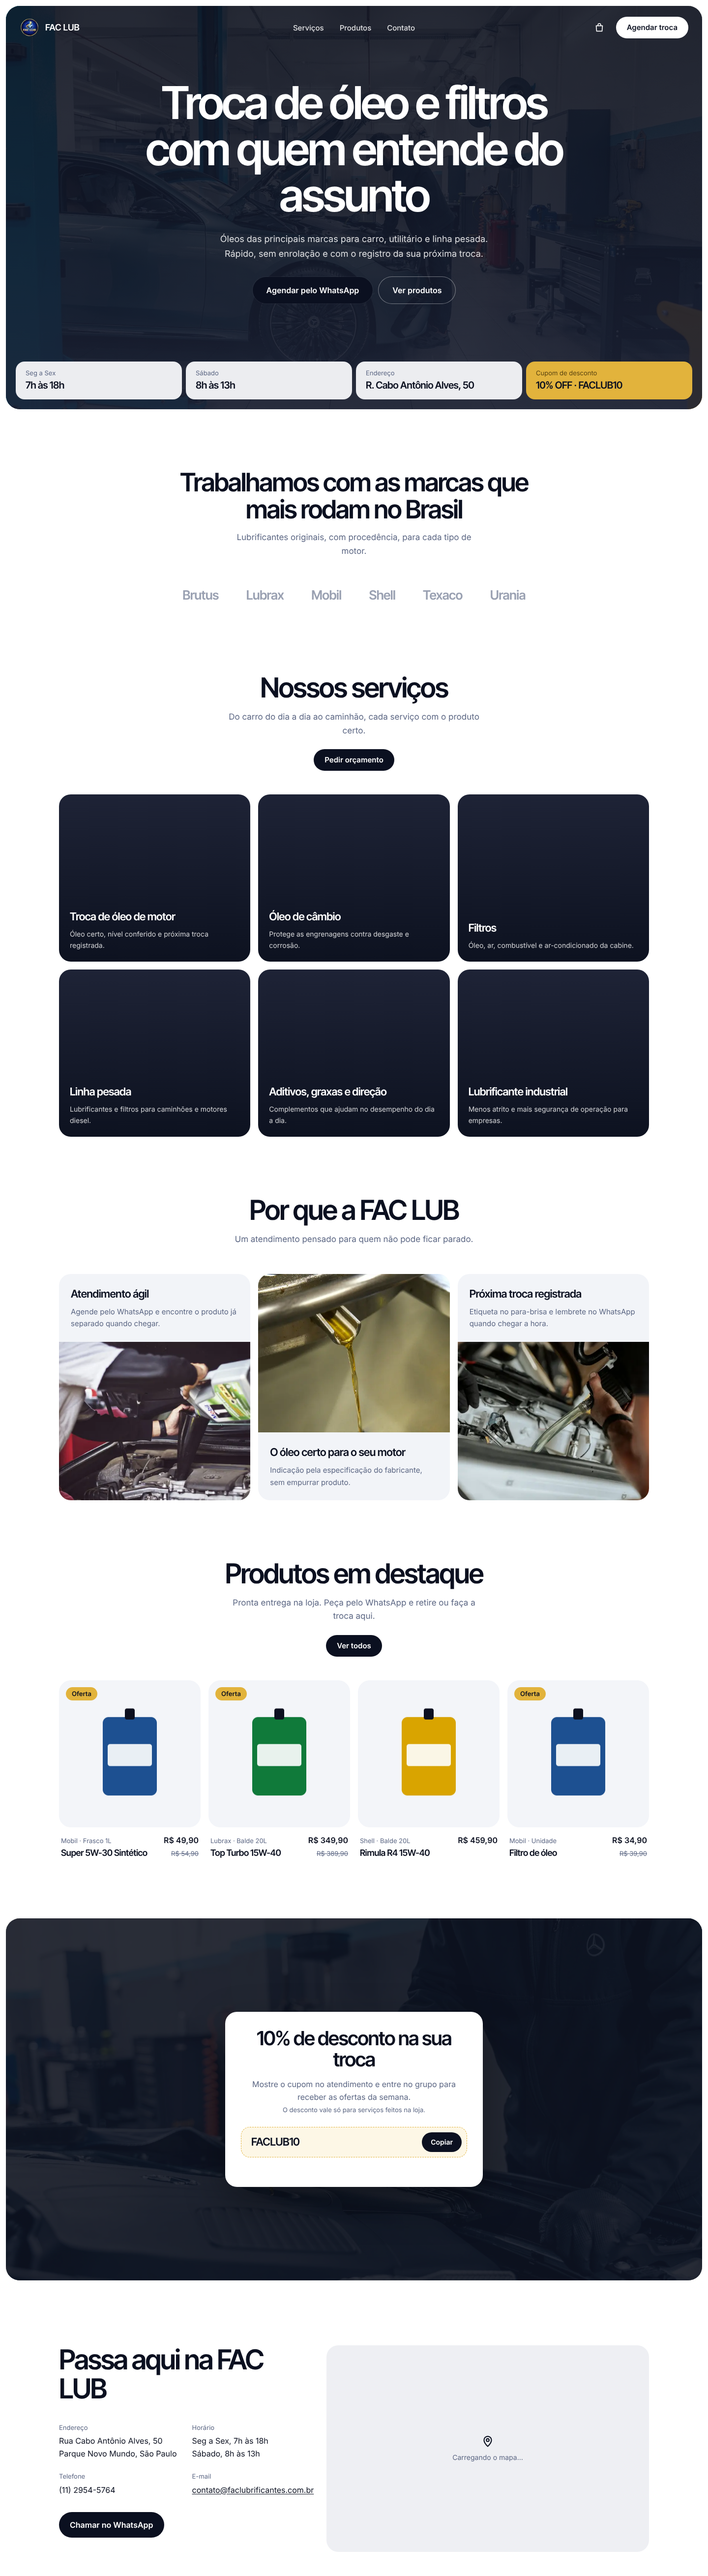
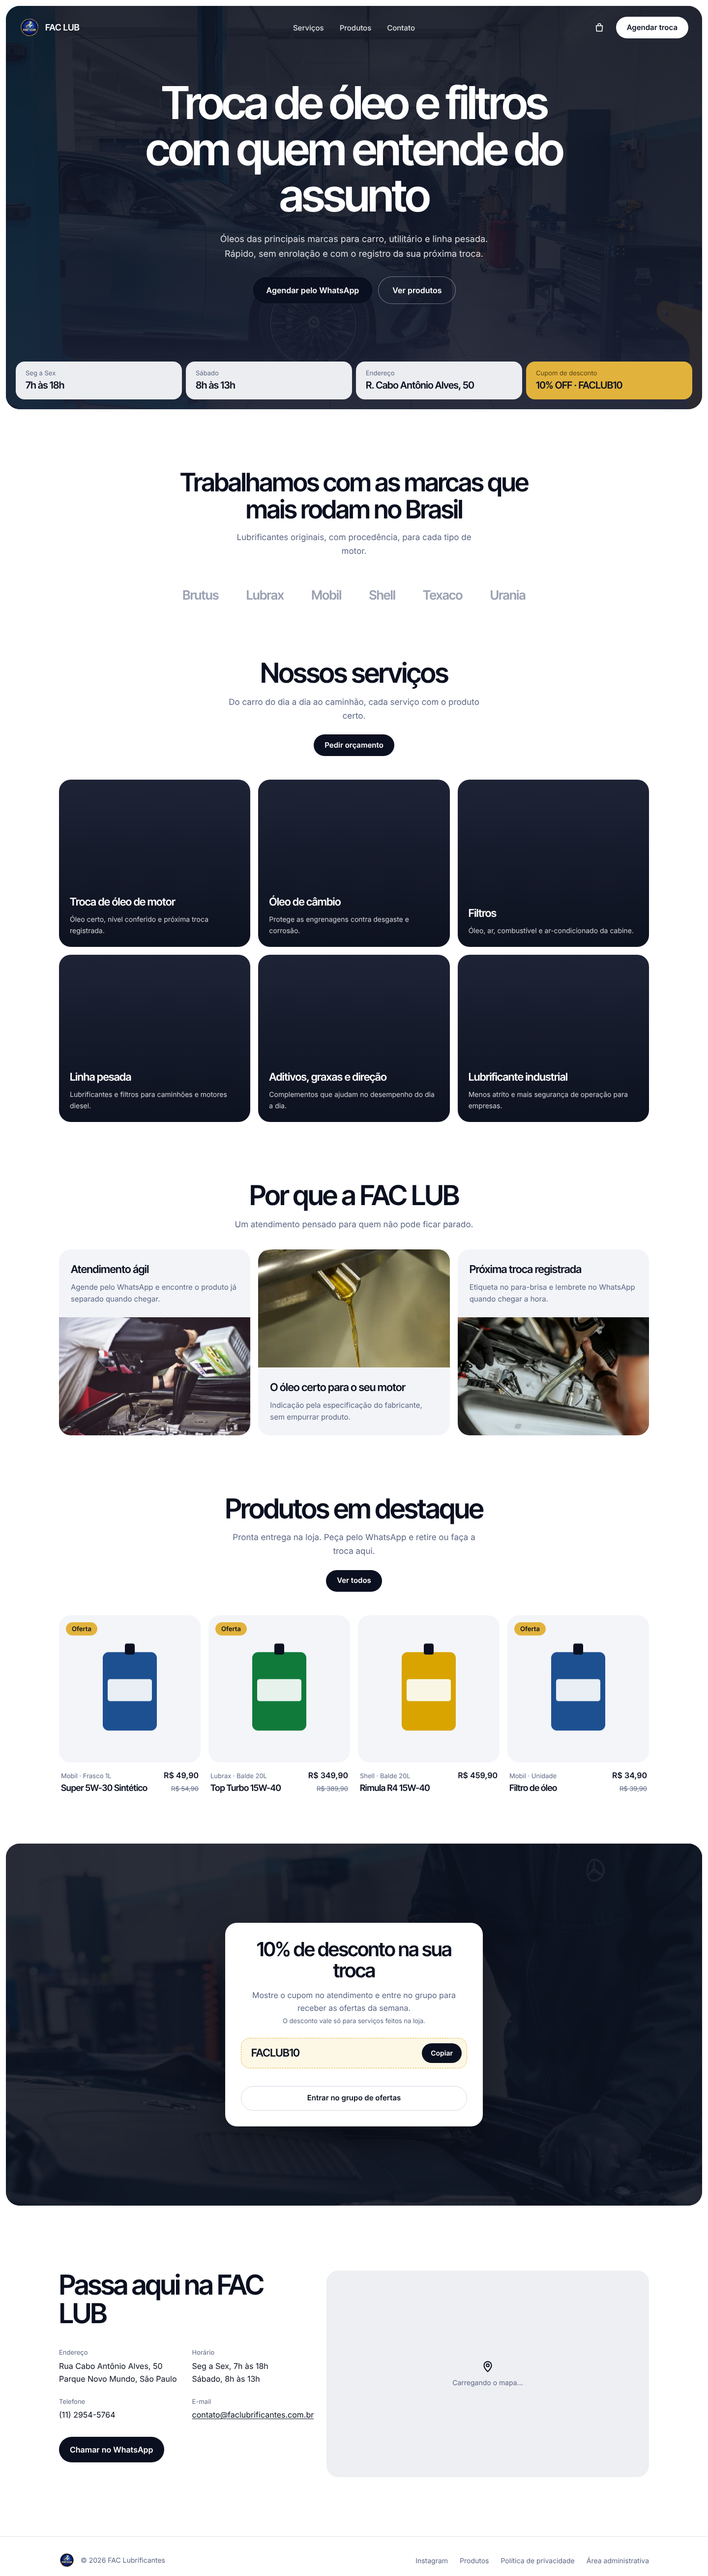
docs(site-publico): segunda rodada das telas
Claude-Session: https://claude.ai/code/session_01HkLPVhL2U4uqqiGkbaNdCx

Changed region(s): [[0.0, 0.4046, 1.0, 0.996], [0.0938, 0.249, 0.9062, 0.3112], [0.0938, 0.3424, 0.9062, 0.3735]]

diff --git a/.specs/features/site-publico/screens.md b/.specs/features/site-publico/screens.md
@@ -1,15 +1,17 @@
 # Site público screens
 
 **Verifier**: independent sub-agent (author != verifier)
-**Round**: 1
+**Round**: 2
 
 Fotos tiradas por este sub-agente em 2026-10-28, como diz o `**Walked:**`: `npm run build:local`, `E2E_SKIP_BUILD=1 node scripts/local-supabase/start.mjs --app`, `node scripts/local-supabase/seed.mjs --site`, `POST /api/revalidar`, Chromium do Playwright com a janela no tamanho de cada captura (1x), página rolada até o fim e de volta ao topo, 1 s de espera e foto só da janela (sem fullPage). O iframe do Google Maps não carrega neste ambiente (o proxy recusa `www.google.com`), então o mapa fica no estado "Carregando o mapa...".
 
+Rodada 2, por outro sub-agente independente, em 2026-10-28: as três fotos tiradas de novo do mesmo jeito (build, `start.mjs --app`, seed `--site`, `POST /api/revalidar`, janela no tamanho da captura, 1x, rolagem até o fim e volta, 1 s, foto só da janela). Só as linhas que estavam `differs` foram reabertas; as `same` ficaram como estavam e nada foi acrescentado aos inventários. As linhas cobertas por AD-015 em `## Differences from the source` contam como aprovadas.
+
 | Screen | Compared with | Verdict | Finding |
 | --- | --- | --- | --- |
-| `captures/home.running.png` | `captures/home.png` | diverges | 5 linhas diferem: fotos dos cards de serviço, altura dos cards "Por que a FAC LUB", frase a mais no cupom, "Entrar no grupo de ofertas" ausente, rodapé fora da janela |
-| `captures/catalogo.running.png` | `captures/catalogo.png` | diverges | 1 linha difere: "Carregar mais" ausente |
-| `captures/produto.running.png` | `captures/produto.png` | diverges | 1 linha difere: rodapé cortado na borda de baixo da janela |
+| `captures/home.running.png` | `captures/home.png` | diverges | rodada 2: 1 linha difere: os cards de serviço continuam sem foto. Altura dos cards "Por que a FAC LUB", "Entrar no grupo de ofertas" e rodapé agora iguais; frase do cupom aprovada (AD-015) |
+| `captures/catalogo.running.png` | `captures/catalogo.png` | matches | rodada 2: "Carregar mais" ausente com 12 produtos é diferença aprovada (AD-015) |
+| `captures/produto.running.png` | `captures/produto.png` | matches | rodada 2: o rodapé aparece inteiro na janela |
 
 ### `captures/home.running.png`
 
@@ -28,21 +30,21 @@ Fotos tiradas por este sub-agente em 2026-10-28, como diz o `**Walked:**`: `npm 
 | marcas: 6 nomes em cinza numa linha centralizada | same | nota: mesmos 6 nomes em ordem alfabética (Brutus, Lubrax, Mobil, Shell, Texaco, Urania); a captura usa Mobil, Shell, Texaco, Lubrax, Urania, Brutus. O spec (HOME-01 AC4) não fixa a ordem |
 | serviços: título "Nossos serviços", subtítulo "Do carro do dia a dia ao caminhão, cada serviço com o produto certo." e botão escuro "Pedir orçamento" | same | |
 | serviços: grade 3×2 de cards escuros arredondados (~389×340) com título e texto no pé: "Troca de óleo de motor", "Óleo de câmbio", "Filtros", "Linha pesada", "Aditivos, graxas e direção", "Lubrificante industrial", com os textos da captura | same | |
-| serviços: uma foto ocupando cada card (na captura, imagens com alt "Troca de óleo", "Óleo de câmbio", "Filtros", "Linha pesada", "Aditivos e graxas", "Lubrificante industrial") | differs | nenhum card tem foto: só o gradiente escuro, sem elemento de imagem (o spec, Assumptions, pede fotos de banco nas seções de serviços) |
+| serviços: uma foto ocupando cada card (na captura, imagens com alt "Troca de óleo", "Óleo de câmbio", "Filtros", "Linha pesada", "Aditivos e graxas", "Lubrificante industrial") | differs | rodada 2: continua sem foto em nenhum dos 6 cards: só o gradiente escuro de cima para baixo, sem elemento de imagem e sem as alts da captura (o spec, Assumptions, pede fotos de banco nas seções de serviços; nenhuma linha de `## Differences from the source` cobre a ausência) |
 | por que: título "Por que a FAC LUB" e subtítulo "Um atendimento pensado para quem não pode ficar parado." | same | |
 | por que: 3 cards claros; esquerda e direita com texto em cima e foto embaixo, meio com foto em cima e texto embaixo; textos "Atendimento ágil", "O óleo certo para o seu motor", "Próxima troca registrada" e seus parágrafos | same | |
-| por que: tamanho dos cards (~389×360) e das fotos (~240 px de altura) | differs | cards com ~460 px de altura e fotos de 389×322; a seção cresce ~100 px e empurra o resto da página para baixo |
+| por que: tamanho dos cards (~389×360) e das fotos (~240 px de altura) | same | rodada 2: cards de ~389×378 e fotos de 389×240 nos três cards (esquerda e direita embaixo, meio em cima); nota: ~18 px mais altos que a captura |
 | destaques: título "Produtos em destaque", subtítulo "Pronta entrega na loja. Peça pelo WhatsApp e retire ou faça a troca aqui." e botão "Ver todos" | same | |
 | destaques: 4 cards numa linha, foto arredondada (~288×300) com selo "Oferta", embaixo "marca · embalagem" à esquerda e preço à direita, e o nome; Super 5W-30 Sintético, Top Turbo 15W-40, Rimula R4 15W-40, Filtro de óleo | same | nota: imagem neutra de embalagem; selo "Oferta" também no Top Turbo (em oferta nos dados) e o preço normal riscado sob o preço; "[MARCA]" e "[PREÇO]" viram Mobil e R$ 34,90 etc. |
 | cupom: seção escura de largura total com foto de fundo e card branco centralizado | same | |
 | cupom: título "10% de desconto na sua troca" em 2 linhas | same | |
-| cupom: texto "Mostre o cupom no atendimento e entre no grupo para receber as ofertas da semana." (só essa frase) | differs | a frase e, abaixo dela, uma linha a mais em letra menor: "O desconto vale só para serviços feitos na loja." (exigida por CUPOM-01 AC3, mas não listada em `## Differences from the source`) |
+| cupom: texto "Mostre o cupom no atendimento e entre no grupo para receber as ofertas da semana." (só essa frase) | same | rodada 2: a frase e, abaixo dela, a linha menor "O desconto vale só para serviços feitos na loja.": diferença aprovada (AD-015, CUPOM-01 AC 3) |
 | cupom: campo tracejado amarelo claro com "FACLUB10" e botão escuro "Copiar" | same | |
-| cupom: botão de contorno "Entrar no grupo de ofertas" de largura total | differs | o botão não aparece: o card termina no campo do cupom (o seed grava `group_link = null`, e HOME-01 AC11 esconde o botão) |
+| cupom: botão de contorno "Entrar no grupo de ofertas" de largura total | same | rodada 2: o botão de contorno "Entrar no grupo de ofertas" de largura total aparece abaixo do campo do cupom |
 | contato: título "Passa aqui na FAC LUB" em 2 linhas à esquerda; grade 2×2 com "Endereço" (Rua Cabo Antônio Alves, 50 / Parque Novo Mundo, São Paulo), "Horário" (Seg a Sex, 7h às 18h / Sábado, 8h às 13h), "Telefone" ((11) 2954-5764), "E-mail" (contato@faclubrificantes.com.br, sublinhado) | same | |
 | contato: botão escuro "Chamar no WhatsApp" | same | |
 | contato: mapa à direita num painel cinza arredondado (~658×420) com pino ao centro | same | nota: legenda "Carregando o mapa..." no lugar de "[Mapa do Google incorporado]" porque o Google não é acessível neste ambiente |
-| rodapé: linha divisória, logo + "© 2026 FAC Lubrificantes" à esquerda e "Instagram", "Produtos", "Área administrativa" à direita, no pé da janela | differs | o rodapé está fora da janela: a página tem 5405 px e o rodapé começa em y=5308, então a foto termina no espaço branco abaixo do contato. Fora da foto (fullPage), o rodapé mostra "Produtos", "Política de privacidade" (aprovado) e "Área administrativa", sem "Instagram" (o seed grava `instagram = null`) |
+| rodapé: linha divisória, logo + "© 2026 FAC Lubrificantes" à esquerda e "Instagram", "Produtos", "Área administrativa" à direita, no pé da janela | same | rodada 2: o rodapé está na janela, com linha divisória, logo + "© 2026 FAC Lubrificantes" à esquerda e "Instagram", "Produtos", "Política de privacidade" (aprovado, AD-005) e "Área administrativa" à direita; nota: a página tem 5253 px, então os últimos 16 px do espaço abaixo do texto do rodapé ficam fora da janela |
 
 ### `captures/catalogo.running.png`
 
@@ -55,7 +57,7 @@ Fotos tiradas por este sub-agente em 2026-10-28, como diz o `**Walked:**`: `npm 
 | contador "12 produtos" acima da grade | same | |
 | grade de 4 colunas × 3 linhas, 12 cards | same | |
 | card: foto arredondada com selo "Oferta" no canto, "marca · embalagem", nome e preço à esquerda e botão redondo escuro "+" à direita | same | nota: imagem neutra de embalagem; preço normal riscado ao lado do preço nas ofertas (CAT-01 AC13); a ordem dos cards e os selos seguem os dados na ordem "Destaques" (Top Turbo, Filtro de óleo, Super 5W-30, Rimula R4, Brutus, Graxa multiuso, Delvac, Filtro de ar, Helix HX8, Fluido de direção, Havoline, Urania), com "Oferta" em 4 cards |
-| botão de contorno "Carregar mais" centralizado abaixo da grade | differs | não há botão: abaixo da grade só espaço branco até o rodapé (o seed tem 12 produtos visíveis; a captura combina "12 produtos" com "Carregar mais", o que CAT-01 AC11 não permite com 12) |
+| botão de contorno "Carregar mais" centralizado abaixo da grade | same | rodada 2: não há botão, só espaço branco até o rodapé, com 12 produtos: diferença aprovada (AD-015, CAT-01 AC 11) |
 | rodapé: linha divisória, "© 2026 FAC Lubrificantes · Parque Novo Mundo, São Paulo" à esquerda e "Área administrativa" à direita | same | "Política de privacidade" antes de "Área administrativa": diferença aprovada (AD-005) |
 
 ### `captures/produto.running.png`
@@ -77,4 +79,4 @@ Fotos tiradas por este sub-agente em 2026-10-28, como diz o `**Walked:**`: `npm 
 | ficha técnica: 6 linhas com divisórias, rótulo à esquerda e valor à direita: Viscosidade 15W-40, Tipo Mineral, Especificação API, Aplicação Motores diesel, Código, Disponibilidade Pronta entrega | same | "[API]" e "[SKU]" viram "API CI-4" e "LUB-TT-20" |
 | "Combine com" título centralizado | same | |
 | "Combine com": 4 cards numa linha com foto arredondada, marca, nome e preço, sem botão "+" | same | nota: os produtos vêm dos dados (Super 5W-30 Sintético, Filtro de óleo, Helix HX8 5W-30, Havoline 10W-40), 2 com selo "Oferta" e preço riscado; a seção fica ~20 px mais baixa |
-| rodapé: linha divisória, "© 2026 FAC Lubrificantes · Parque Novo Mundo, São Paulo" à esquerda e "Área administrativa" à direita, inteiro na janela | differs | o rodapé está cortado: a página tem 1715 px, a linha divisória fica em y≈1626 e o texto do rodapé começa na borda de baixo da janela, só o alto das letras aparece |
+| rodapé: linha divisória, "© 2026 FAC Lubrificantes · Parque Novo Mundo, São Paulo" à esquerda e "Área administrativa" à direita, inteiro na janela | same | rodada 2: o rodapé aparece inteiro, com linha divisória, "© 2026 FAC Lubrificantes · Parque Novo Mundo, São Paulo" à esquerda e "Política de privacidade" (aprovado, AD-005) e "Área administrativa" à direita; nota: a página tem 1673 px, só os últimos 7 px de espaço abaixo do texto ficam fora da janela |

diff --git a/.specs/features/site-publico/tasks.md b/.specs/features/site-publico/tasks.md
@@ -676,7 +676,7 @@ Proof: `npx playwright test tests/e2e/site-seo.spec.ts -g "SEO-01.3:"`
 The feature's live state, written as it happens - a compaction gives no warning.
 
 **Settled mid-build:** execução nesta sessão, sem sub-agentes de lote (oferta com recomendação inline) - user: "aprovado, pode seguir"
-**Dispatched:** Verifier (validate.md) e screens sub-agent (verify-screens.md, round 1) em paralelo, sobre o HEAD com `proofs.md` de 792e512, 2026-10-28; o Verifier não roda Playwright (as portas do stack local ficam com o screens sub-agent) e o orquestrador roda `check_proofs --mutations` depois; Verifier returned (FAIL, 8 achados, 1 mutação sobreviveu); screens round 1 returned (home diverges em 5 linhas, catalogo em 1, produto em 1); screens sub-agent round 2 (só as linhas differs) no HEAD d989a78, 2026-10-28
+**Dispatched:** Verifier (validate.md) e screens sub-agent (verify-screens.md, round 1) em paralelo, sobre o HEAD com `proofs.md` de 792e512, 2026-10-28; o Verifier não roda Playwright (as portas do stack local ficam com o screens sub-agent) e o orquestrador roda `check_proofs --mutations` depois; Verifier returned (FAIL, 8 achados, 1 mutação sobreviveu); screens round 1 returned (home diverges em 5 linhas, catalogo em 1, produto em 1); screens sub-agent round 2 (só as linhas differs) no HEAD d989a78, 2026-10-28; screens round 2 returned (catalogo e produto matches; home diverges só nos cards de serviço sem foto, Q12)
 **Open questions (para o usuário):** Q12 - os 6 cards de "Nossos serviços" ficam no fundo escuro (design aprovado) ou ganham fotos (premissa da spec "fotos de banco nas seções de serviços")? As fotos do protótipo para esses cards não vieram no export e nenhum banco de fotos abre deste ambiente. Q13 - as marcas da Home seguem em ordem alfabética (a tabela não tem campo de ordem) ou ganham um campo "Ordem" no painel, como as categorias, para seguir a ordem da captura (Mobil, Shell, Texaco, Lubrax, Urania, Brutus)?
 **Walked:** 2026-10-28, app de `E2E_SKIP_BUILD=1 node scripts/local-supabase/start.mjs --app` (depois de `npm run build:local` ou de um `npx playwright test`) em http://localhost:3100, com `node scripts/local-supabase/seed.mjs --site` e `curl -X POST -H "authorization: Bearer revalidar-local" localhost:3100/api/revalidar` (as páginas são pré-geradas antes do seed). Fotos tiradas numa janela do tamanho de cada captura, depois de rolar a página até o fim para as fotos com `loading="lazy"` carregarem: `/` a 1440×5237 (`captures/home.running.png`; a página tem 5405 px, então o rodapé fica abaixo da janela), `/produtos` a 1440×2029 (`captures/catalogo.running.png`; 12 produtos, sem "Carregar mais", ver design.md) e `/produtos/top-turbo-15w-40` a 1440×1666 (`captures/produto.running.png`). HEAD-01: a 360 px "Agendar troca" fica no topo, à vista, em `/`, `/produtos` e no Top Turbo, com `https://wa.me/551129545764?text=` e a mensagem de agendamento. HOME-01: a Home mostra banner do seed, faixa com horários, endereço e "10% OFF · FACLUB10", marcas em ordem alfabética, serviços, diferenciais, 4 destaques, cupom e contato; no painel (`contato@onbind.com.br` / `faclub-admin-123`), "Configurações" com sábado "8h às 12h" salvo aparece na faixa da Home na visita seguinte (411 ms); o valor voltou a "8h às 13h". CUPOM-01: "Copiar" põe FACLUB10 na área de transferência e o rótulo vira "Copiado". CAT-01: "Linha pesada" + busca "15w40" + "Menor preço" dá Brutus R$ 299,90, Top Turbo R$ 349,90, Urania R$ 399,90, Delvac R$ 419,90 e Rimula R$ 459,90, com a URL `?categoria=linha-pesada&q=15w40&ordem=menor-preco`. PDP-01: no Top Turbo, Balde 20L mostra R$ 349,90 "à vista · balde 20L" e Frasco 1L troca para R$ 39,90 "à vista · frasco 1L"; `/produtos/oleo-inventado` responde 404 com "Produto não encontrado.". PRIV-01: "Política de privacidade" no rodapé de `/produtos` abre a política. SEO-01: o Top Turbo tem o título "Lubrax Top Turbo 15W-40 | FAC LUB" e `og:image` com a capa do Storage. O banco local ficou com o seed do site.
 
